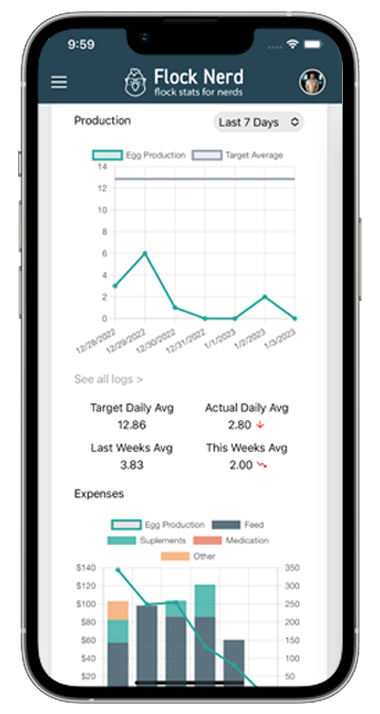
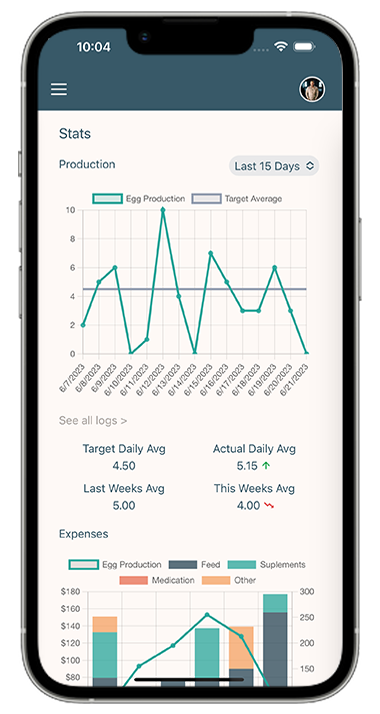
Update home page graphics

Changed region(s): [[0.0868, 0.0308, 0.8974, 0.986], [0.1737, 0.0308, 0.2895, 0.0924], [0.6658, 0.0616, 0.6947, 0.0924]]

diff --git a/src/app/(site)/page.tsx b/src/app/(site)/page.tsx
@@ -3,6 +3,8 @@ import Link from "next/link";
 import header from "../../../public/site-header-v2.png";
 import stats from "../../../public/FlockNerd-Stats-mobile.png";
 import logo from "../../../public/FlockNerd-logo-square.png";
+import eggs from "../../../public/track-eggs.png";
+import expenses from "../../../public/track-expenses.png";
 // import { useRef } from "react";
 // import { MdArrowDownward } from "react-icons/md";
 // import { motion } from "framer-motion";
@@ -74,7 +76,7 @@ const Home = () => {
           //   ref={ref}
         >
           <div className="flex max-w-5xl flex-wrap items-center justify-center gap-8 px-8 lg:flex-nowrap lg:gap-14">
-            <video
+            {/* <video
               //   initial={{ opacity: 0, y: 40 }}
               //   whileInView={{ opacity: 1, y: 0 }}
               //   transition={{ duration: 0.5, delay: 0 }}
@@ -86,14 +88,26 @@ const Home = () => {
             >
               <source src="/FlockNerd-Demo.webm" type="video/webm" />
               <source src="/FlockNerd-Demo.mp4" type="video/mp4" />
-            </video>
+            </video> */}
+            <div className="flex flex-auto flex-wrap gap-1 md:basis-2/5 md:flex-nowrap">
+              <Image
+                src={eggs}
+                alt="Track egg production with FlockNerd"
+                className="flex-1"
+              />
+              <Image
+                src={expenses}
+                alt="Track expenses with FlockNerd"
+                className="flex-1"
+              />
+            </div>
 
             <div
               // initial={{ opacity: 0, x: 200 }}
               // whileInView={{ opacity: 1, x: 0 }}
               // transition={{ duration: 0.5, delay: 0.15 }}
               // viewport={{ once: true }}
-              className="flex flex-col"
+              className="flex flex-1 flex-col md:basis-3/5"
             >
               <h2 className="mb-4 text-3xl">Track Your Flock 🐓🦆🦃</h2>
               <p className="pb-4">
@@ -189,7 +203,7 @@ const Home = () => {
             </div>
           </div>
         </section>
-        <section className="flex w-full flex-col items-center justify-center gap-12 bg-[#fcf2ec] py-14">
+        <section className="flex w-full flex-col items-center justify-center gap-12 bg-gray-300 py-14">
           <div className="flex max-w-5xl flex-wrap items-center justify-center gap-8 px-8 lg:flex-nowrap lg:gap-14">
             <PWAExample />
 
